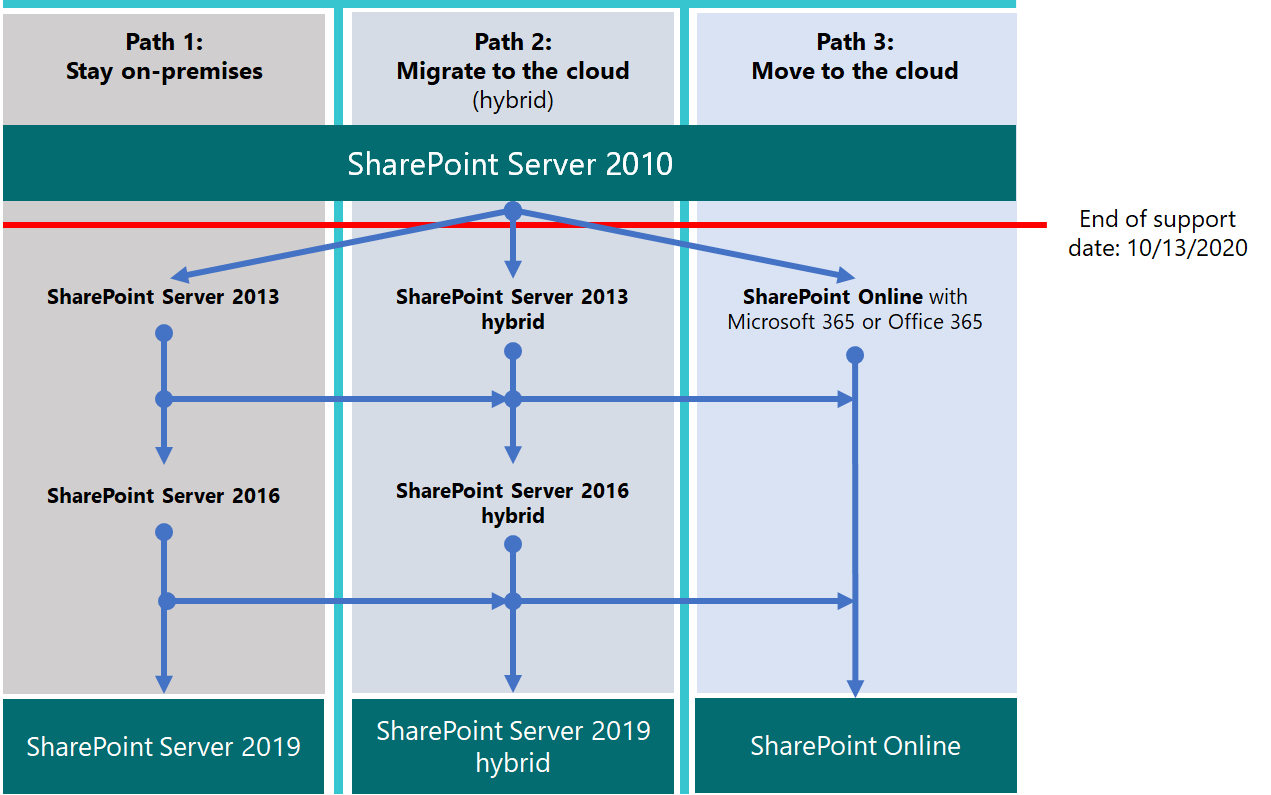
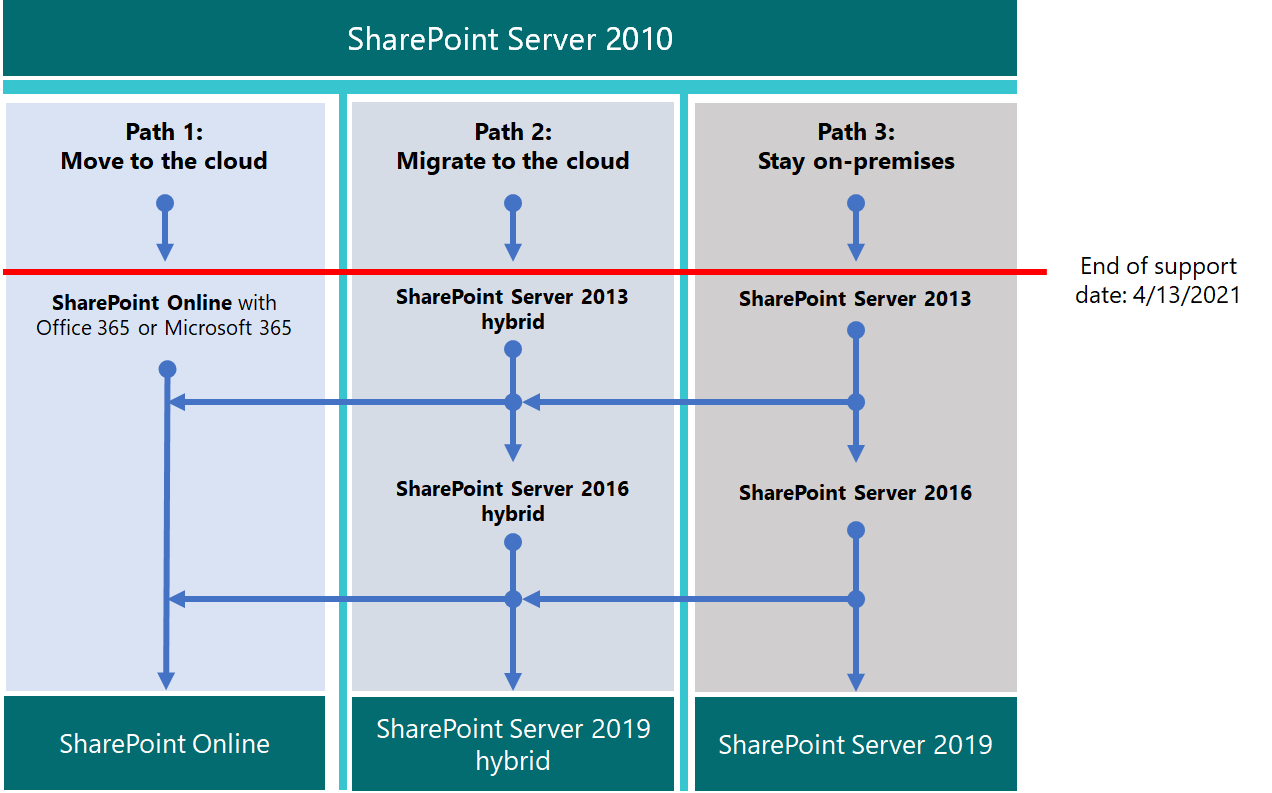
2010 EoS date change updates

diff --git a/Enterprise/upgrade-from-sharepoint-2010.md b/Enterprise/upgrade-from-sharepoint-2010.md
@@ -58,12 +58,12 @@ This matrix helps plot a course when it comes to migrating product features and 
    
 If you choose options on the low end of the scale (good options), you'll need to start planning for another upgrade soon after migration from SharePoint Server 2010 completes. 
 
-Here are the three  paths you can take to avoid the end of support for SharePoint Server 2010.
+Here are the three paths you can take to avoid the end of support for SharePoint Server 2010.
 
 ![SharePoint Server 2010 upgrade paths](./media/upgrade-from-sharepoint-2010/upgrade-from-sharepoint-2010-paths.png)
 
 >[!Note]
->End of support for SharePoint Server 2010 and SharePoint Foundation 2010 are scheduled for Oct 13, 2020, but *please be aware* that you should always check the [Product Lifecycle site](https://support.microsoft.com/lifecycle) for the most current dates.
+>End of support for SharePoint Server 2010 and SharePoint Foundation 2010 are scheduled for April 13, 2021, but *please be aware* that you should always check the [Product Lifecycle site](https://support.microsoft.com/lifecycle) for the most current dates.
 >
 
   

diff --git a/Enterprise/project-server-2010-end-of-support.md b/Enterprise/project-server-2010-end-of-support.md
@@ -36,7 +36,7 @@ For more information about Office 2010 servers reaching end of support, see [Upg
   
 ## What does end of support mean?
 
-Project Server, like almost all Microsoft products, has a support lifecycle during which we provide new features, bug fixes, and security updates. This lifecycle typically lasts for 10 years from the date of the product's initial release, and the end of this lifecycle is known as the product's end of support. When Project Server 2010 reaches its end of support on October 13, 2020, Microsoft will no longer provide:
+Project Server, like almost all Microsoft products, has a support lifecycle during which we provide new features, bug fixes, and security updates. This lifecycle typically lasts for 10 years from the date of the product's initial release, and the end of this lifecycle is known as the product's end of support. When Project Server 2010 reaches its end of support on April 13, 2021, Microsoft will no longer provide:
   
 - Technical support for problems that may occur.
     
